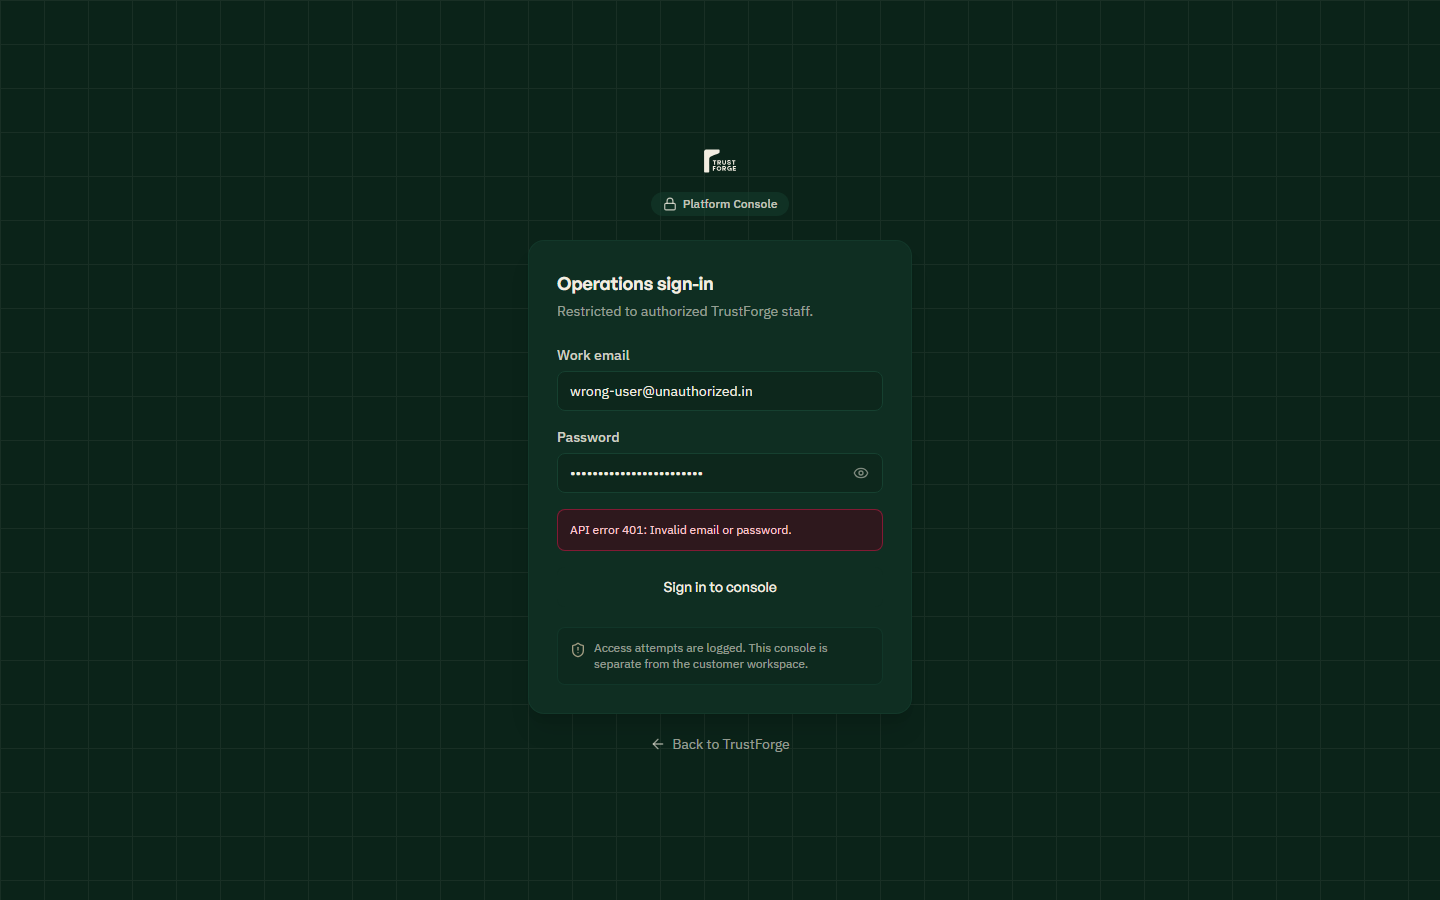
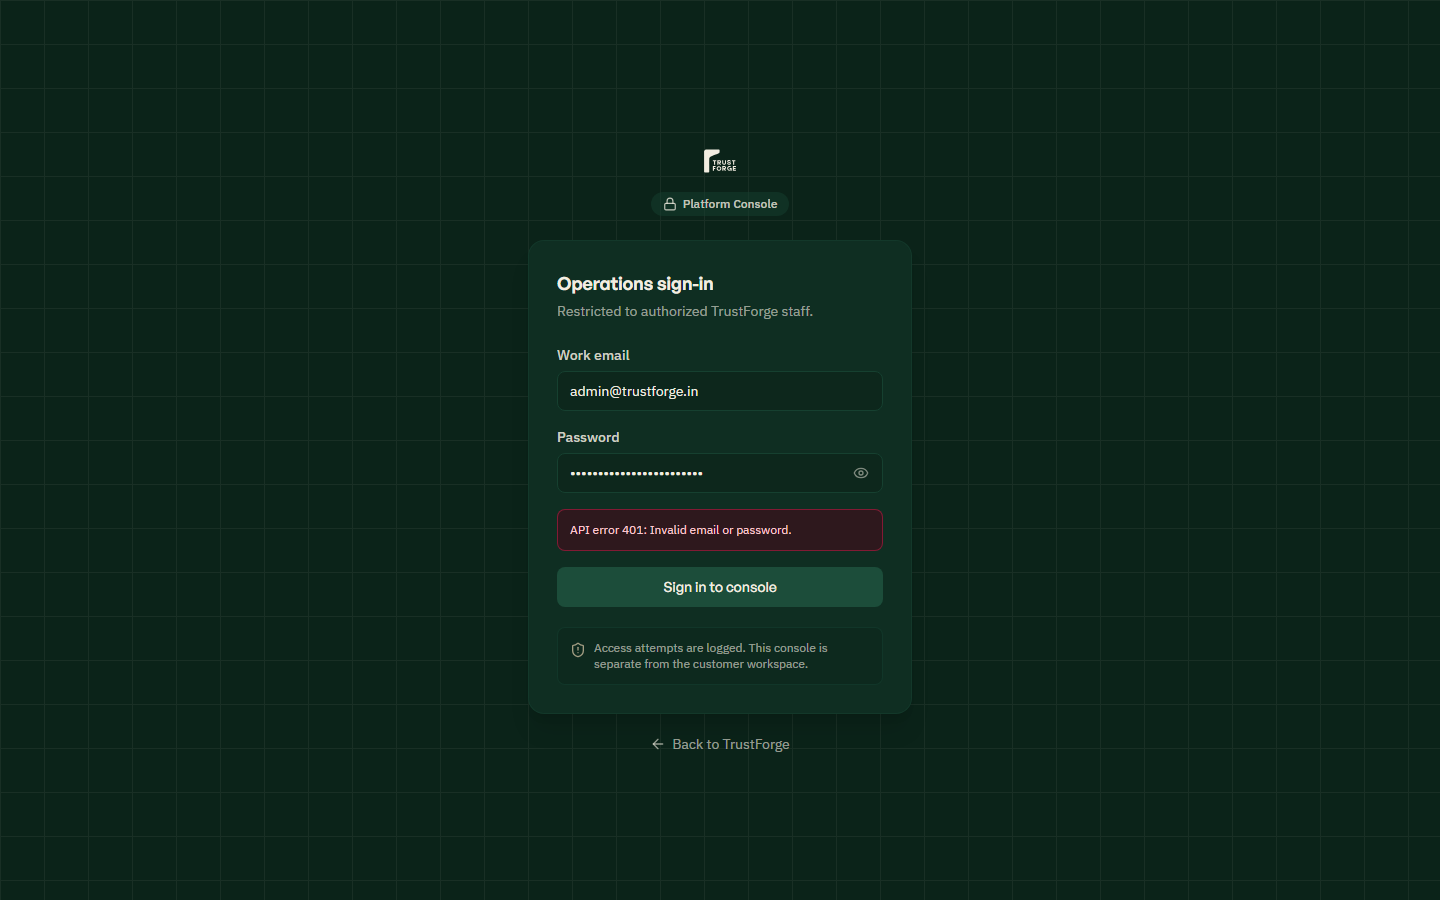
fix(auth): enforce strict admin authentication gate, server role validation, and remove password fallback

Changed region(s): [[0.375, 0.6222, 0.625, 0.6844], [0.4062, 0.4044, 0.5, 0.4667]]

diff --git a/TrustForge Frontend/src/context/AuthContext.tsx b/TrustForge Frontend/src/context/AuthContext.tsx
@@ -8,14 +8,14 @@ import {
   type ReactNode,
 } from "react";
 import type { AccountMode, User } from "@/types";
-import { DEMO_USER, DEMO_PERSONAL_USER, ADMIN_USER } from "@/data/organization";
+import { DEMO_USER, DEMO_PERSONAL_USER } from "@/data/organization";
 import { loginApi, signupApi, logoutApi, getMeApi, setAuthToken, getAuthToken } from "@/services/api";
 
 interface AuthContextValue {
   user: User | null;
   isAuthenticated: boolean;
   login: (mode: AccountMode, email?: string, password?: string) => Promise<User>;
-  loginAsAdmin: (password?: string, email?: string) => Promise<User>;
+  loginAsAdmin: (password: string, email: string) => Promise<User>;
   signup: (mode: AccountMode, name: string, email: string, password?: string) => Promise<User>;
   logout: () => void;
 }
@@ -55,13 +55,31 @@ export function AuthProvider({ children }: { children: ReactNode }) {
           if (!res?.user?.id) {
             setAuthToken(null);
             persist(null);
+          } else {
+            // Keep user session in sync with authentic server state
+            setUser((prev) => {
+              if (!prev) return null;
+              if (prev.role === res.user.role && prev.id === res.user.id && prev.email === res.user.email) {
+                return prev;
+              }
+              const updated: User = {
+                ...prev,
+                id: res.user.id,
+                email: res.user.email,
+                role: res.user.role as any,
+              };
+              try {
+                localStorage.setItem(STORAGE_KEY, JSON.stringify(updated));
+              } catch {}
+              return updated;
+            });
           }
         })
         .catch(() => {
           setAuthToken(null);
           persist(null);
         });
-    } else if (user) {
+    } else {
       persist(null);
     }
   }, [persist]);
@@ -98,12 +116,48 @@ export function AuthProvider({ children }: { children: ReactNode }) {
 
   const loginAsAdmin = useCallback<AuthContextValue["loginAsAdmin"]>(
     async (password, email) => {
-      // P0-5 FIX: No automatic admin fallback on incorrect password or API offline
-      const targetEmail = email && email.trim() ? email.trim() : "admin@trustforge.in";
-      const res = await loginApi(targetEmail, password || "AdminSecret2026!");
+      const cleanEmail = email?.trim();
+      const cleanPassword = password?.trim();
+
+      if (!cleanEmail) {
+        throw new Error("Administrator work email is required.");
+      }
+      if (!cleanPassword) {
+        throw new Error("Administrator password is required.");
+      }
+
+      // 1. Authenticate against server
+      const res = await loginApi(cleanEmail, cleanPassword);
+
+      // 2. Verify the authenticated role from the backend before permitting admin session
+      const serverRole = res.user?.role;
+      const isPlatformAdmin = serverRole === "Super Admin" || serverRole === "Platform Admin";
+      if (!isPlatformAdmin) {
+        // Customer or unprivileged credentials submitted at /admin/login must be rejected
+        setAuthToken(null);
+        persist(null);
+        throw new Error("Access denied: Account does not have platform administrator privileges.");
+      }
+
+      // 3. Set token only after role authorization succeeds
       setAuthToken(res.token);
-      persist(ADMIN_USER);
-      return ADMIN_USER;
+
+      // 4. Build user profile from authentic server data
+      const adminUserProfile: User = {
+        id: res.user.id,
+        name: res.user.name || "Platform Administrator",
+        email: res.user.email,
+        role: res.user.role as any,
+        accountMode: "organization",
+        avatarInitials:
+          res.user.name
+            ?.split(" ")
+            .slice(0, 2)
+            .map((p) => p[0]?.toUpperCase())
+            .join("") || "TF",
+      };
+      persist(adminUserProfile);
+      return adminUserProfile;
     },
     [persist]
   );

diff --git a/TrustForge Frontend/src/pages/admin/AdminLoginPage.tsx b/TrustForge Frontend/src/pages/admin/AdminLoginPage.tsx
@@ -16,6 +16,14 @@ export function AdminLoginPage() {
 
   const submit = async (e: React.FormEvent) => {
     e.preventDefault();
+    if (!email.trim()) {
+      setError("Administrator work email is required.");
+      return;
+    }
+    if (!password || !password.trim()) {
+      setError("Administrator password is required.");
+      return;
+    }
     setBusy(true);
     setError(null);
     try {
